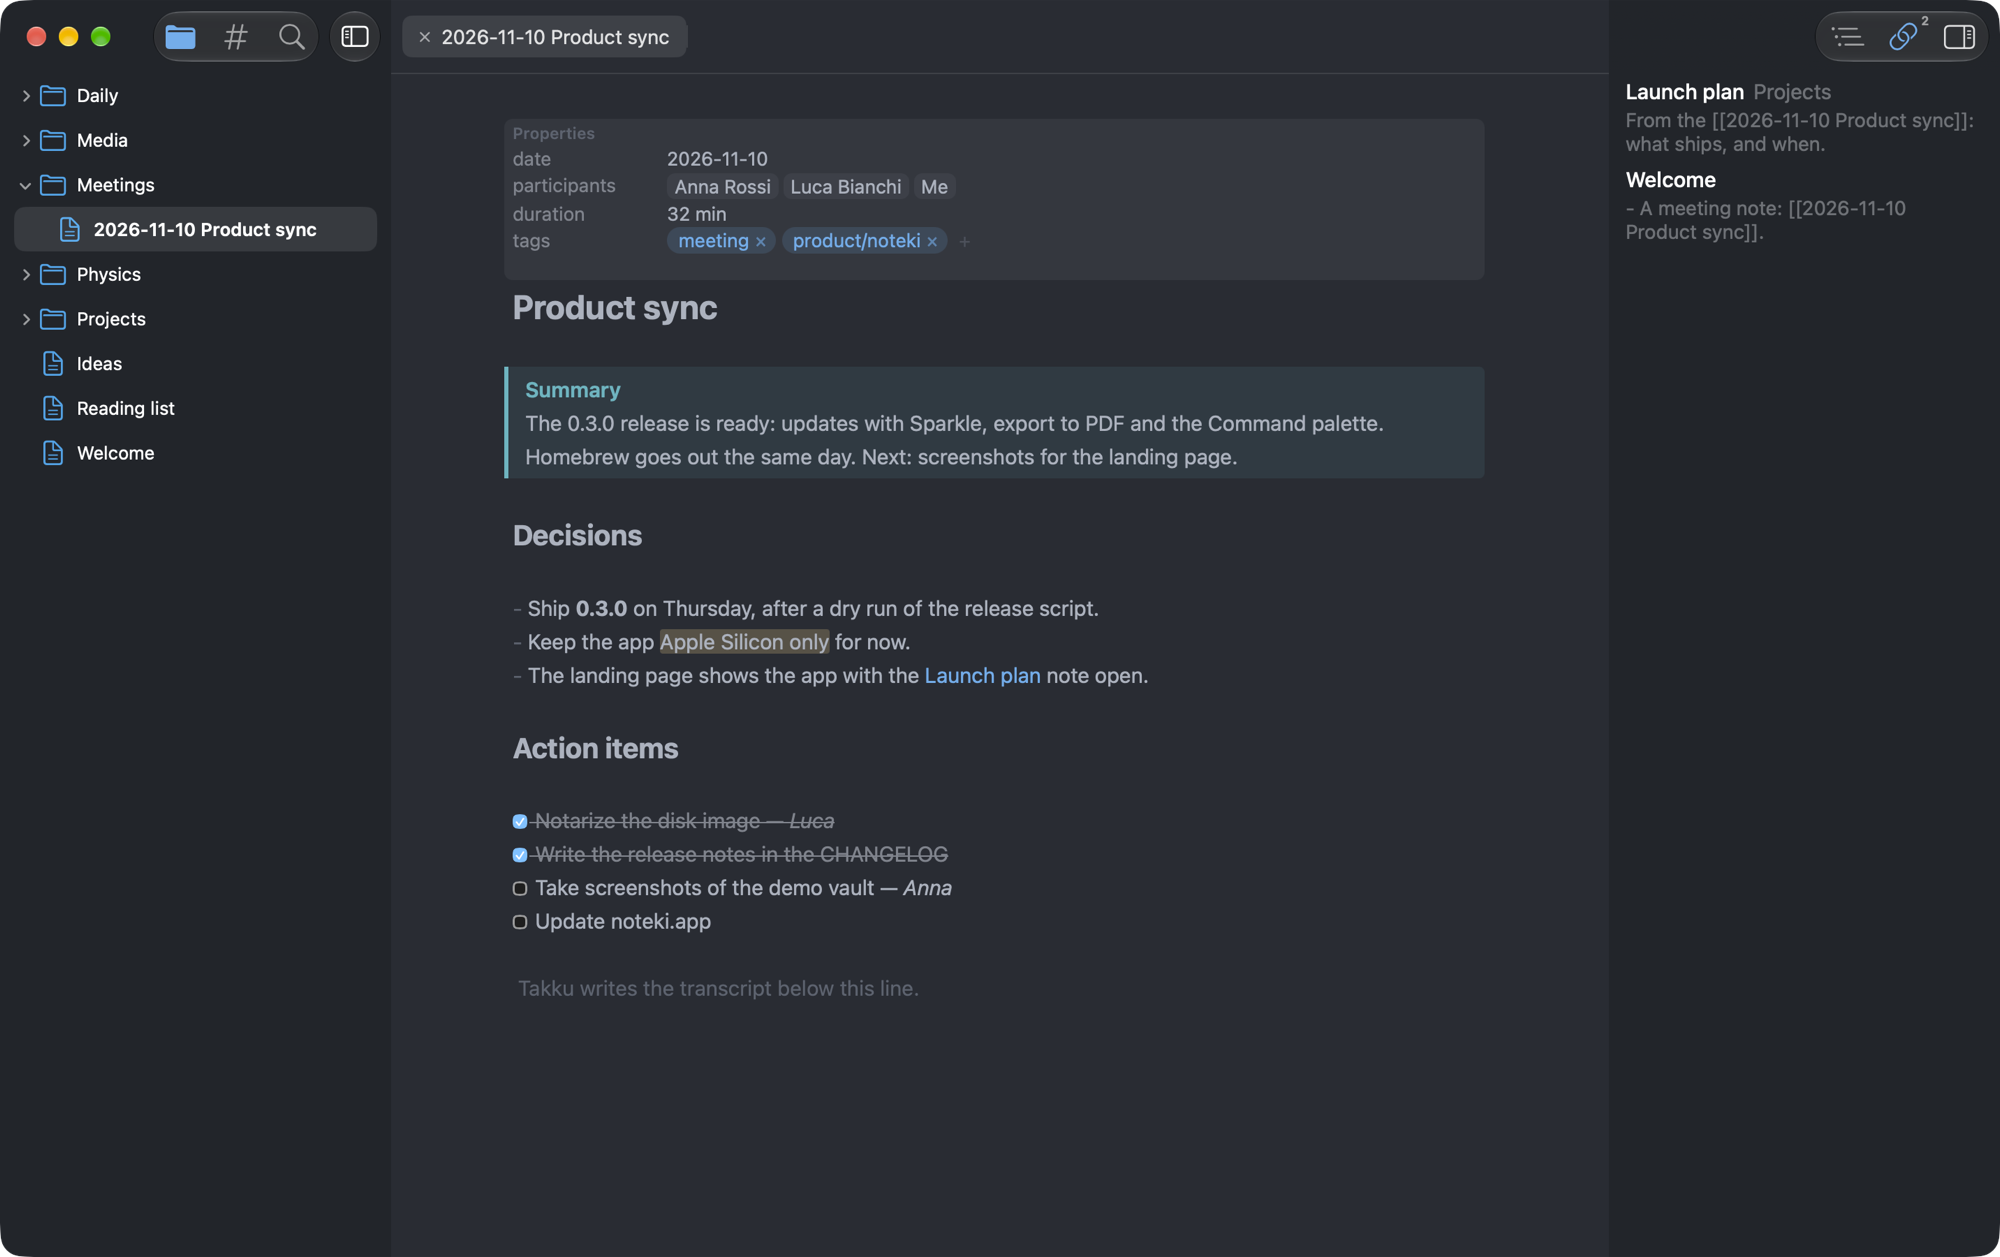
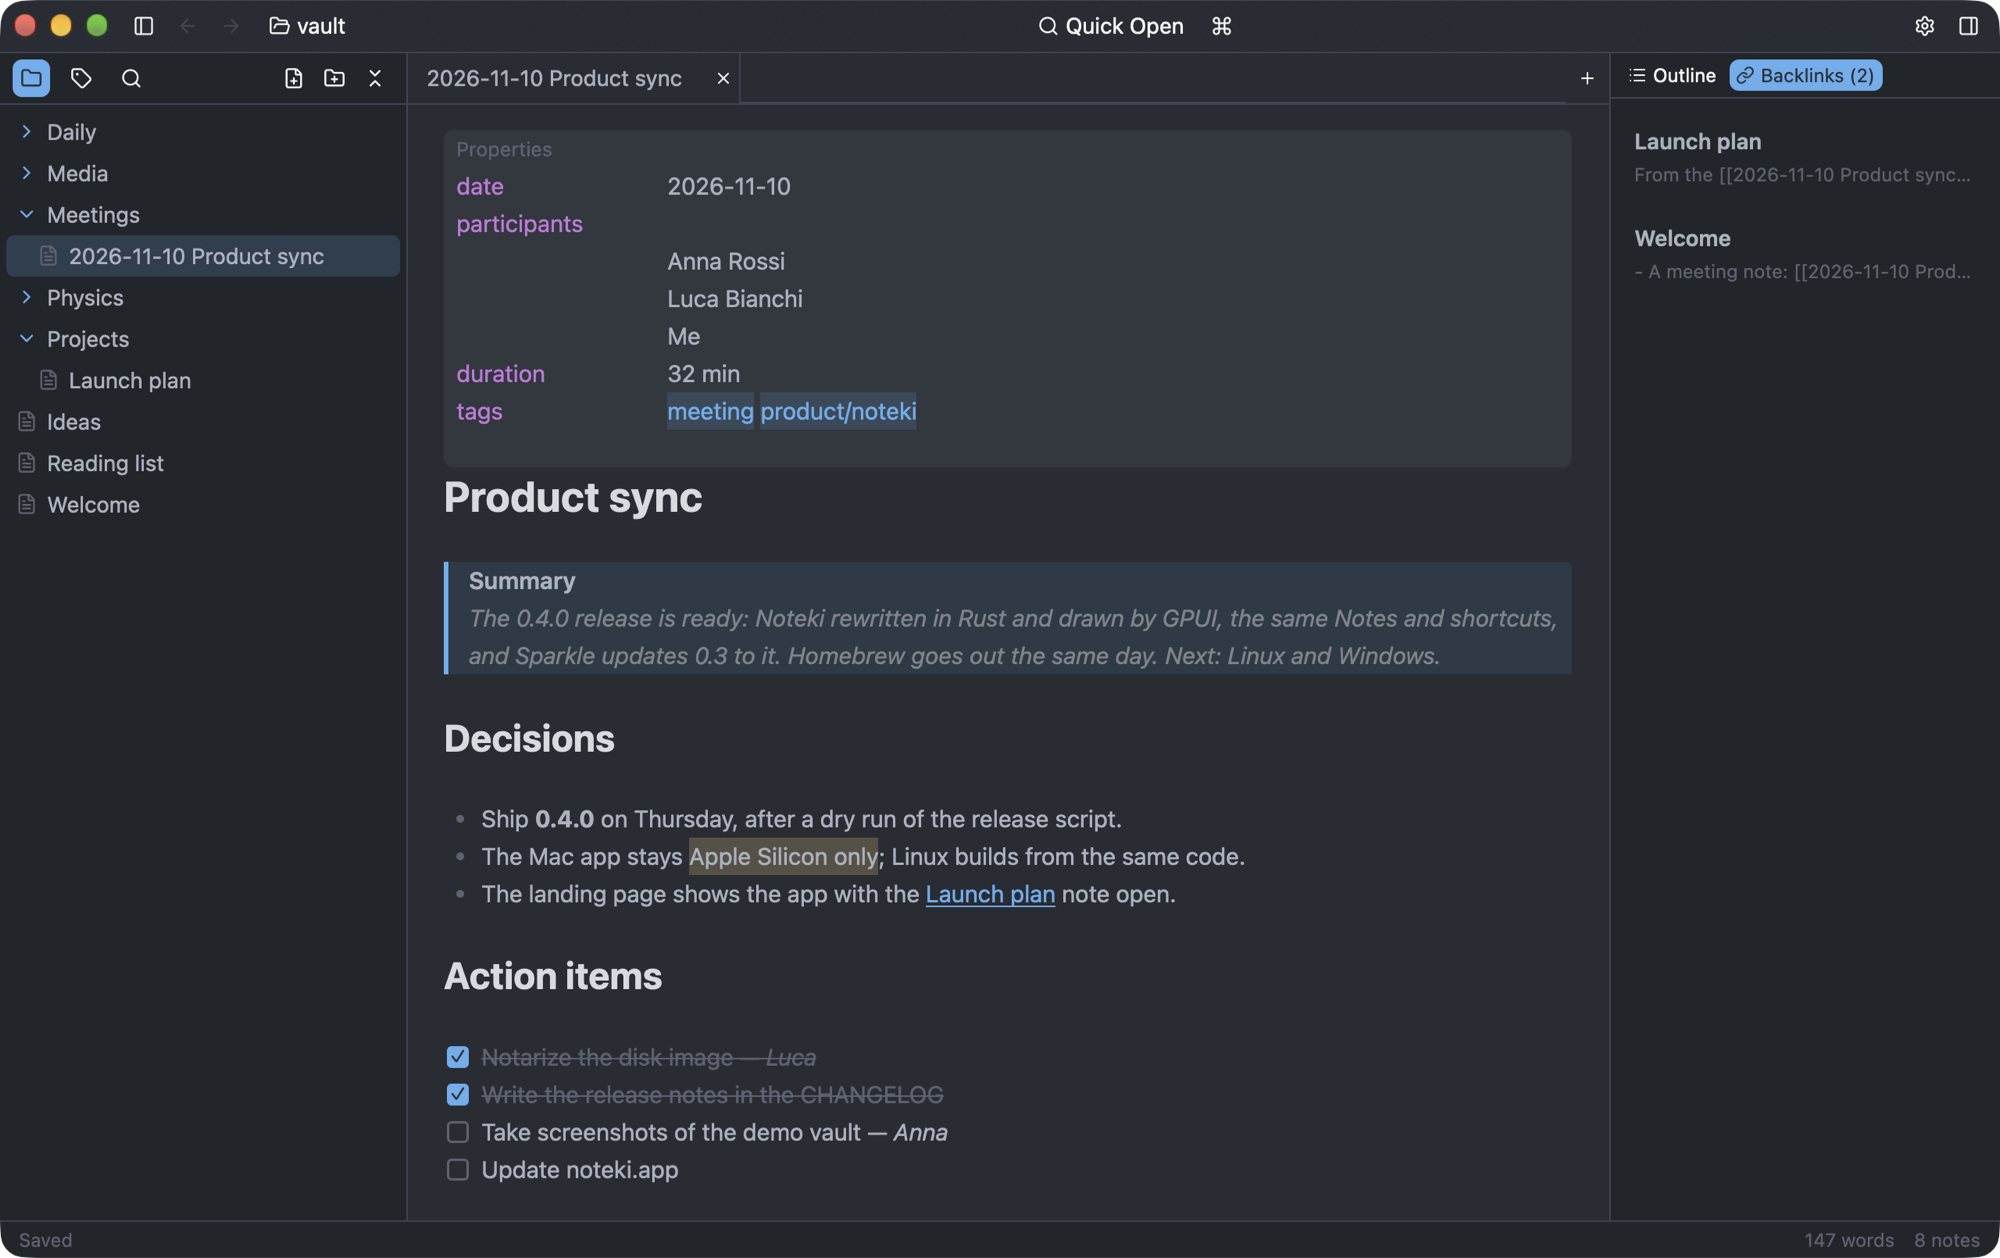
Screenshots of 0.4.0, README and demo vault for an app not only for the Mac, formulas without KaTeX's name

diff --git a/README.md b/README.md
@@ -4,17 +4,19 @@
 
 <h1 align="center">Noteki</h1>
 
-<p align="center">macOS 15+ · Apple Silicon</p>
+<p align="center">macOS 15+ on Apple Silicon · Linux and Windows on the way</p>
 
 <p align="center"><a href="https://noteki.app">noteki.app</a> · <a href="https://github.com/mameli/Noteki/releases/latest/download/Noteki.dmg">Download</a> · <a href="CHANGELOG.md">What's new</a></p>
 
-A light native Mac app to read and write the Markdown vault you keep with **Obsidian**, a fraction of its weight. It works on the same files, side by side with Obsidian, and keeps the parts used every day. Written in Rust, drawn by [GPUI](https://www.gpui.rs): no web page inside.
+A light native app to read and write the Markdown vault you keep with **Obsidian**, a fraction of its weight. It works on the same files, side by side with Obsidian, and keeps the parts used every day. Written in Rust, drawn by [GPUI](https://www.gpui.rs): no web page inside.
+
+The Mac app is out. The same code builds on Linux, and Windows is next: both are still being tried out.
 
 <p align="center">
   <img src="docs/screenshots/latex.png" alt="Noteki showing a note with Maxwell's equations, a callout and Properties" width="640">
 </p>
 
-- **Live preview**: the Markdown syntax hides and shows again where the cursor is; formulas typeset as KaTeX does and Mermaid diagrams drawn in the note, tables edited cell by cell, callouts, task lists, footnotes, code coloured in its language, images in the text.
+- **Live preview**: the Markdown syntax hides and shows again where the cursor is; LaTeX formulas typeset and Mermaid diagrams drawn in the note, tables edited cell by cell, callouts, task lists, footnotes, code coloured in its language, images in the text.
 - **Frontmatter** shown as a Properties table, with Tags as chips.
 - **Wikilinks** resolved as Obsidian does, completed as you type, with **Backlinks** and an Outline in the sidebar.
 - **Tags** pane, **Search** across the vault, a Quick switcher, the Daily note, and a **Command palette** (⇧⌘P) with every command.

diff --git a/CHANGELOG.md b/CHANGELOG.md
@@ -5,7 +5,7 @@
 Noteki is rewritten in Rust, drawn by GPUI: no web page inside, the same Notes, Vault and shortcuts.
 
 - The whole window, the editor included, is native: it opens at once and types without delay on long Notes.
-- Formulas (`$…$`, `$$…$$`) are typeset as KaTeX does and Mermaid diagrams drawn in the Note, without a browser; the source comes back when the cursor goes into it.
+- LaTeX formulas (`$…$`, `$$…$$`) are typeset and Mermaid diagrams drawn in the Note, without a browser; the source comes back when the cursor goes into it.
 - Updating from 0.3 keeps the Vault, the theme, the text's font, size and line length, the Excluded folders, the Daily note and the recent Notes.
 - *Settings* is one page, with *Updates* and *Support*.
 - Return in a list writes the next item (`2.` after `1.`, the numbers below moving on; the same bullet, a new task, a quote); Return on an empty item ends the list, ⇧Return goes to a new line without one.

diff --git a/docs/demo-vault/Welcome.md b/docs/demo-vault/Welcome.md
@@ -7,7 +7,7 @@ Noteki reads and writes the Markdown of an **Obsidian** vault: the same files, s
 
 ![[noteki.png|120]]
 
-- Open [[Maxwell's equations]] for formulas drawn with KaTeX.
+- Open [[Maxwell's equations]] for LaTeX formulas typeset in the note.
 - The [[Launch plan]] has a table and a Mermaid diagram.
 - A meeting note: [[2026-11-10 Product sync]].
 
